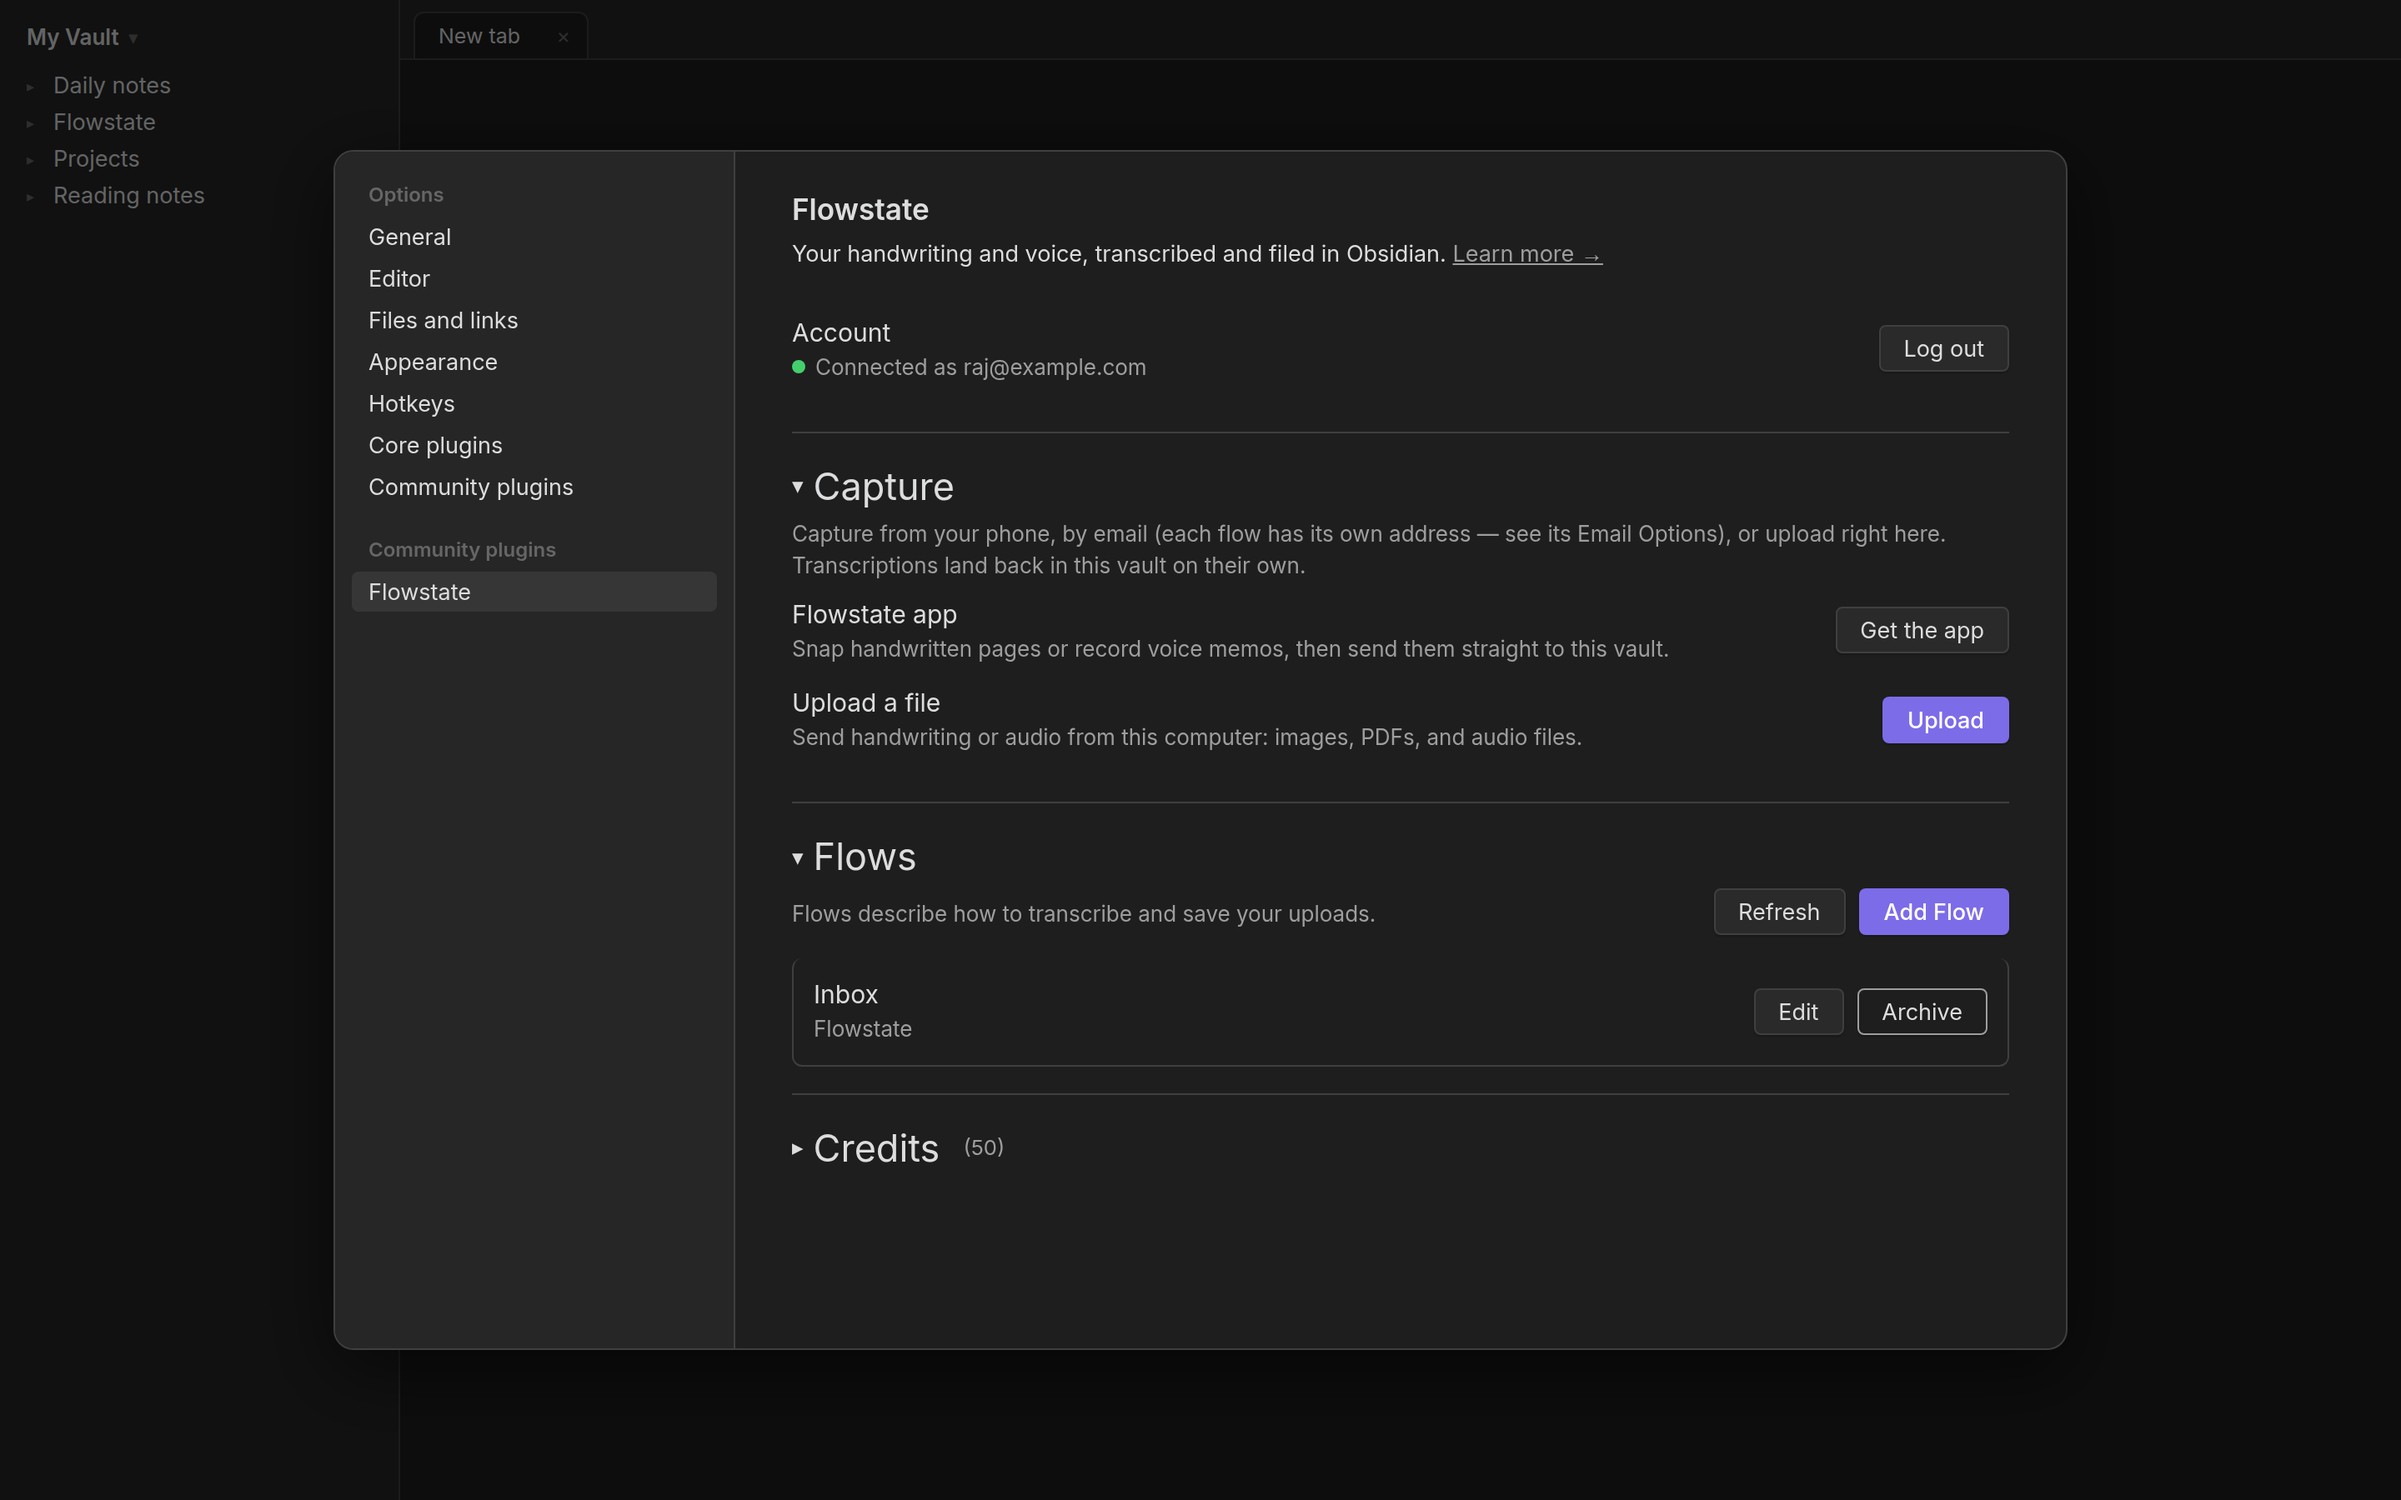
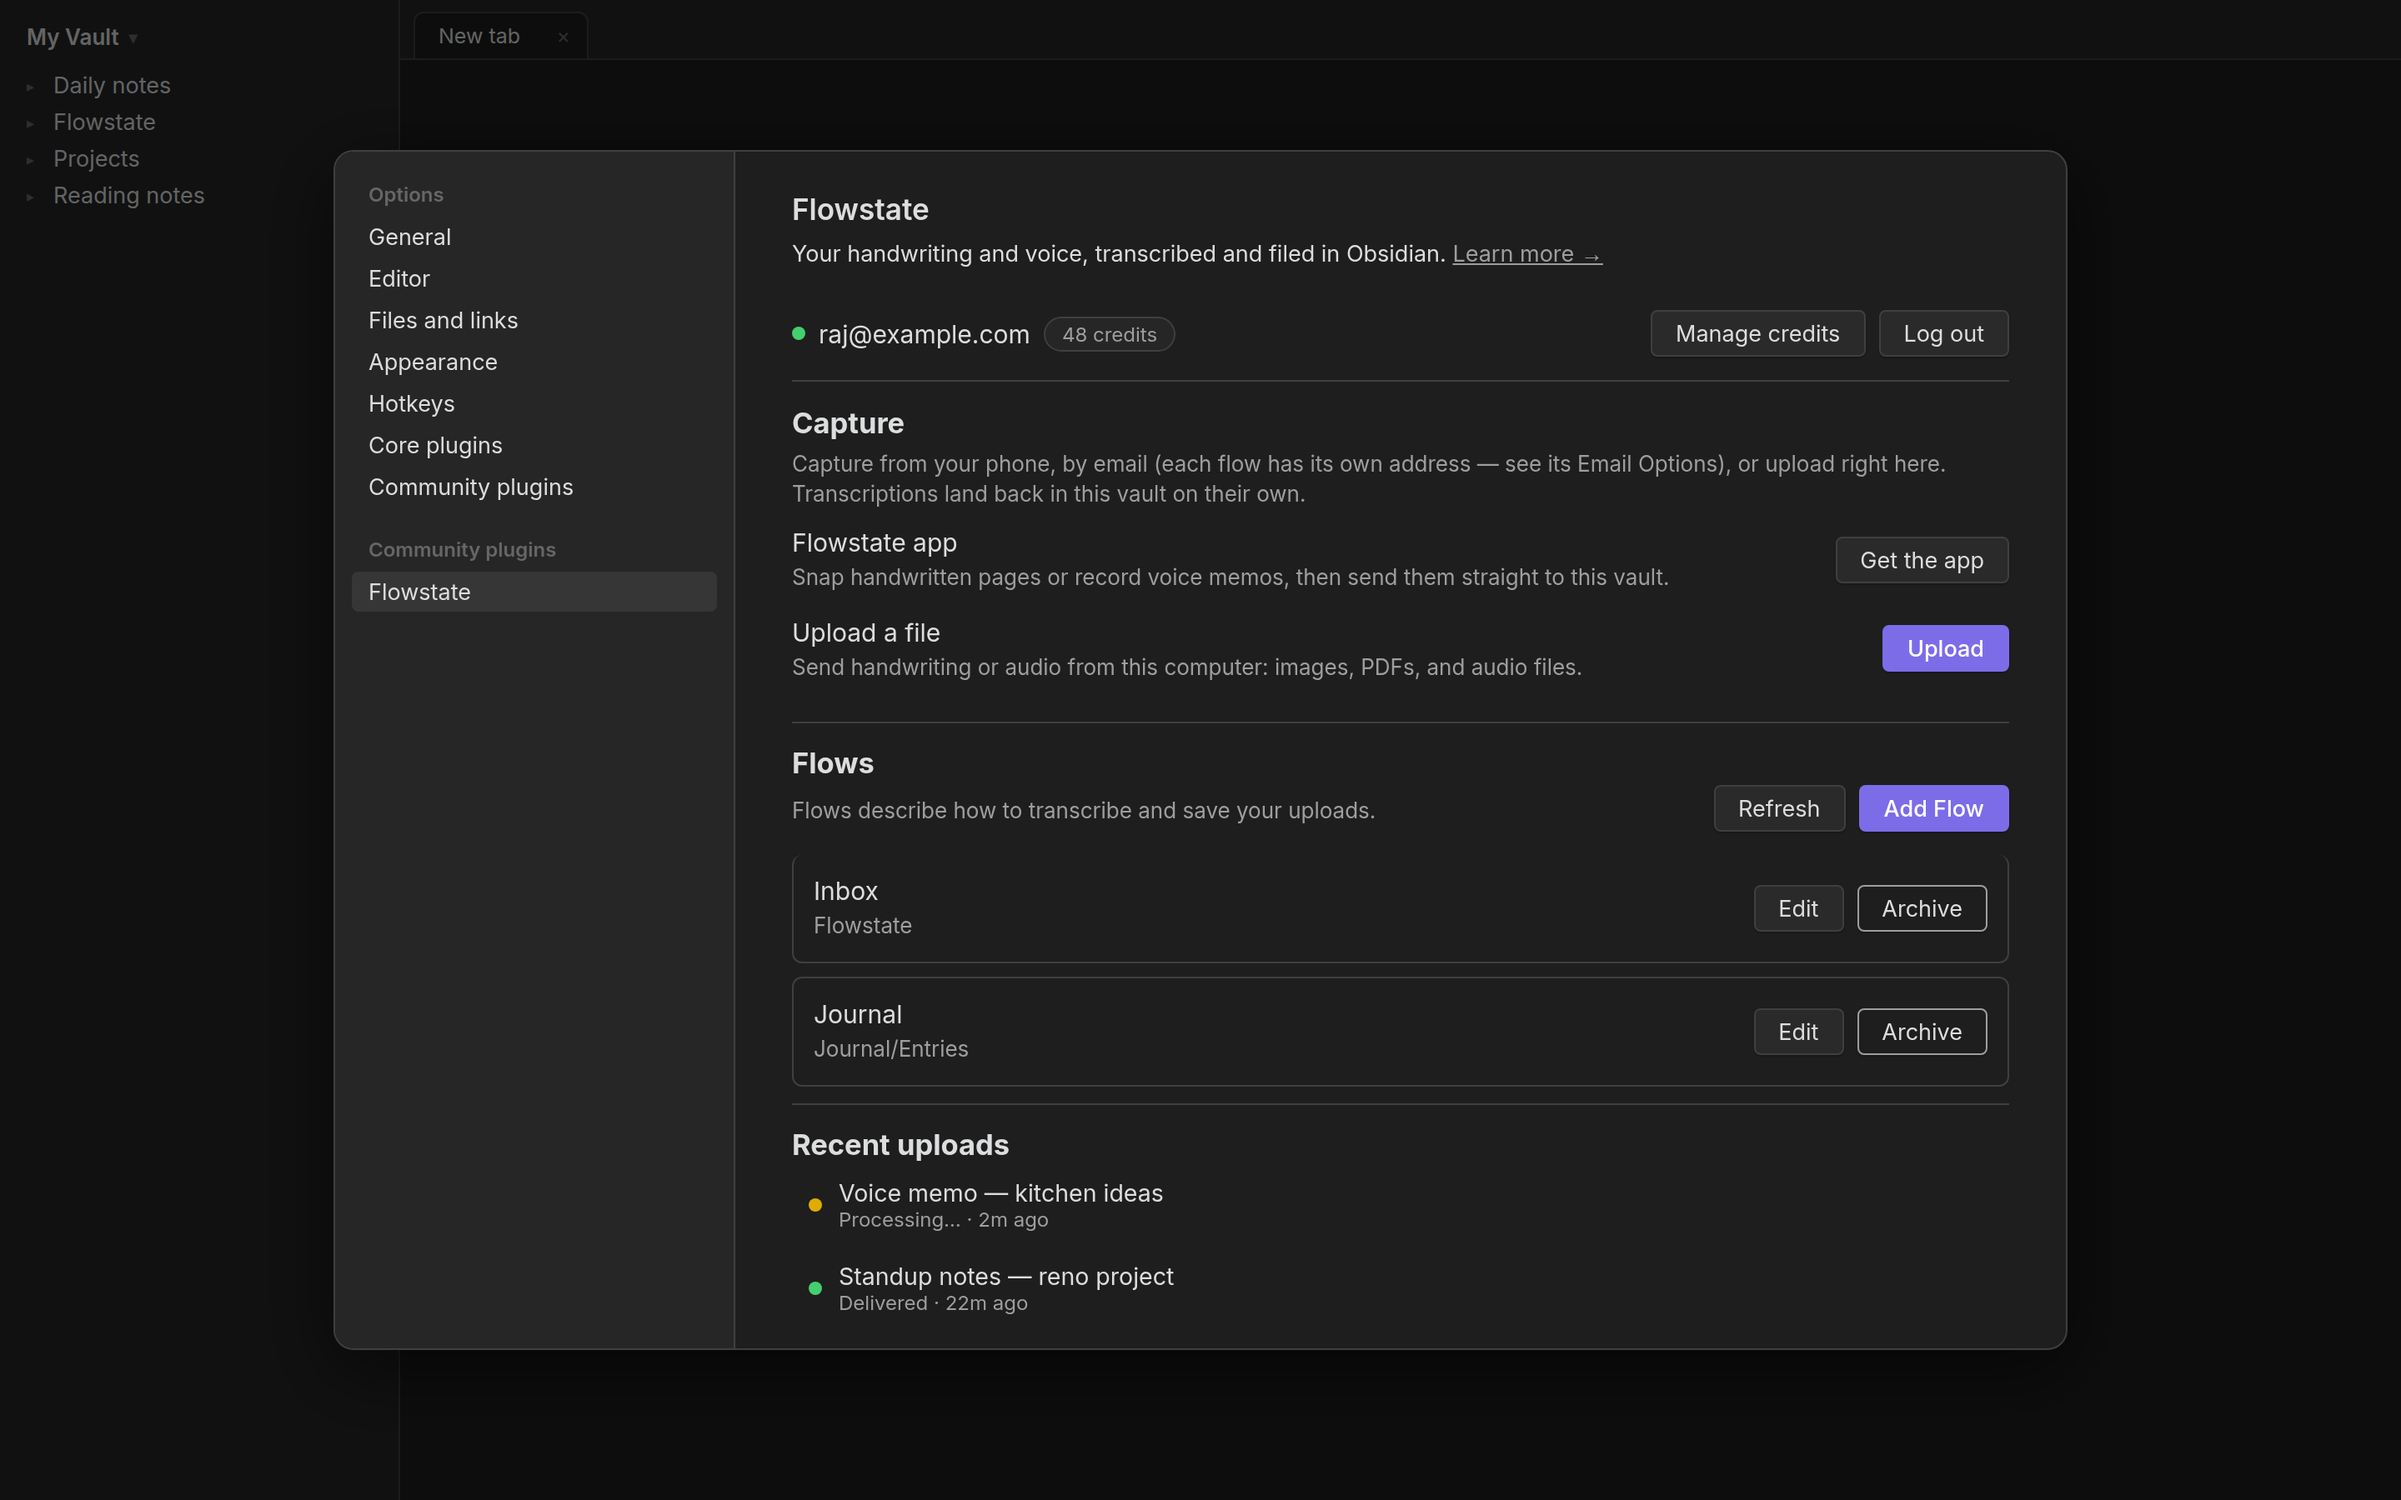
Refresh settings screenshots for the redesign
Claude-Session: https://claude.ai/code/session_013Jy5TrwHaikP7cb5MeofE6

diff --git a/docs/screenshots/README.md b/docs/screenshots/README.md
@@ -45,6 +45,10 @@ All rendered from the real plugin code in an Obsidian-styled harness.
 
 ![Settings signed in](11-settings-updated.png)
 
+**Recent uploads + account bar (scrolled)**
+
+![Recent uploads](settings-recent.png)
+
 **Get-the-app modal (QR + web app link)**
 
 ![Get the app modal](12-get-app-modal.png)
